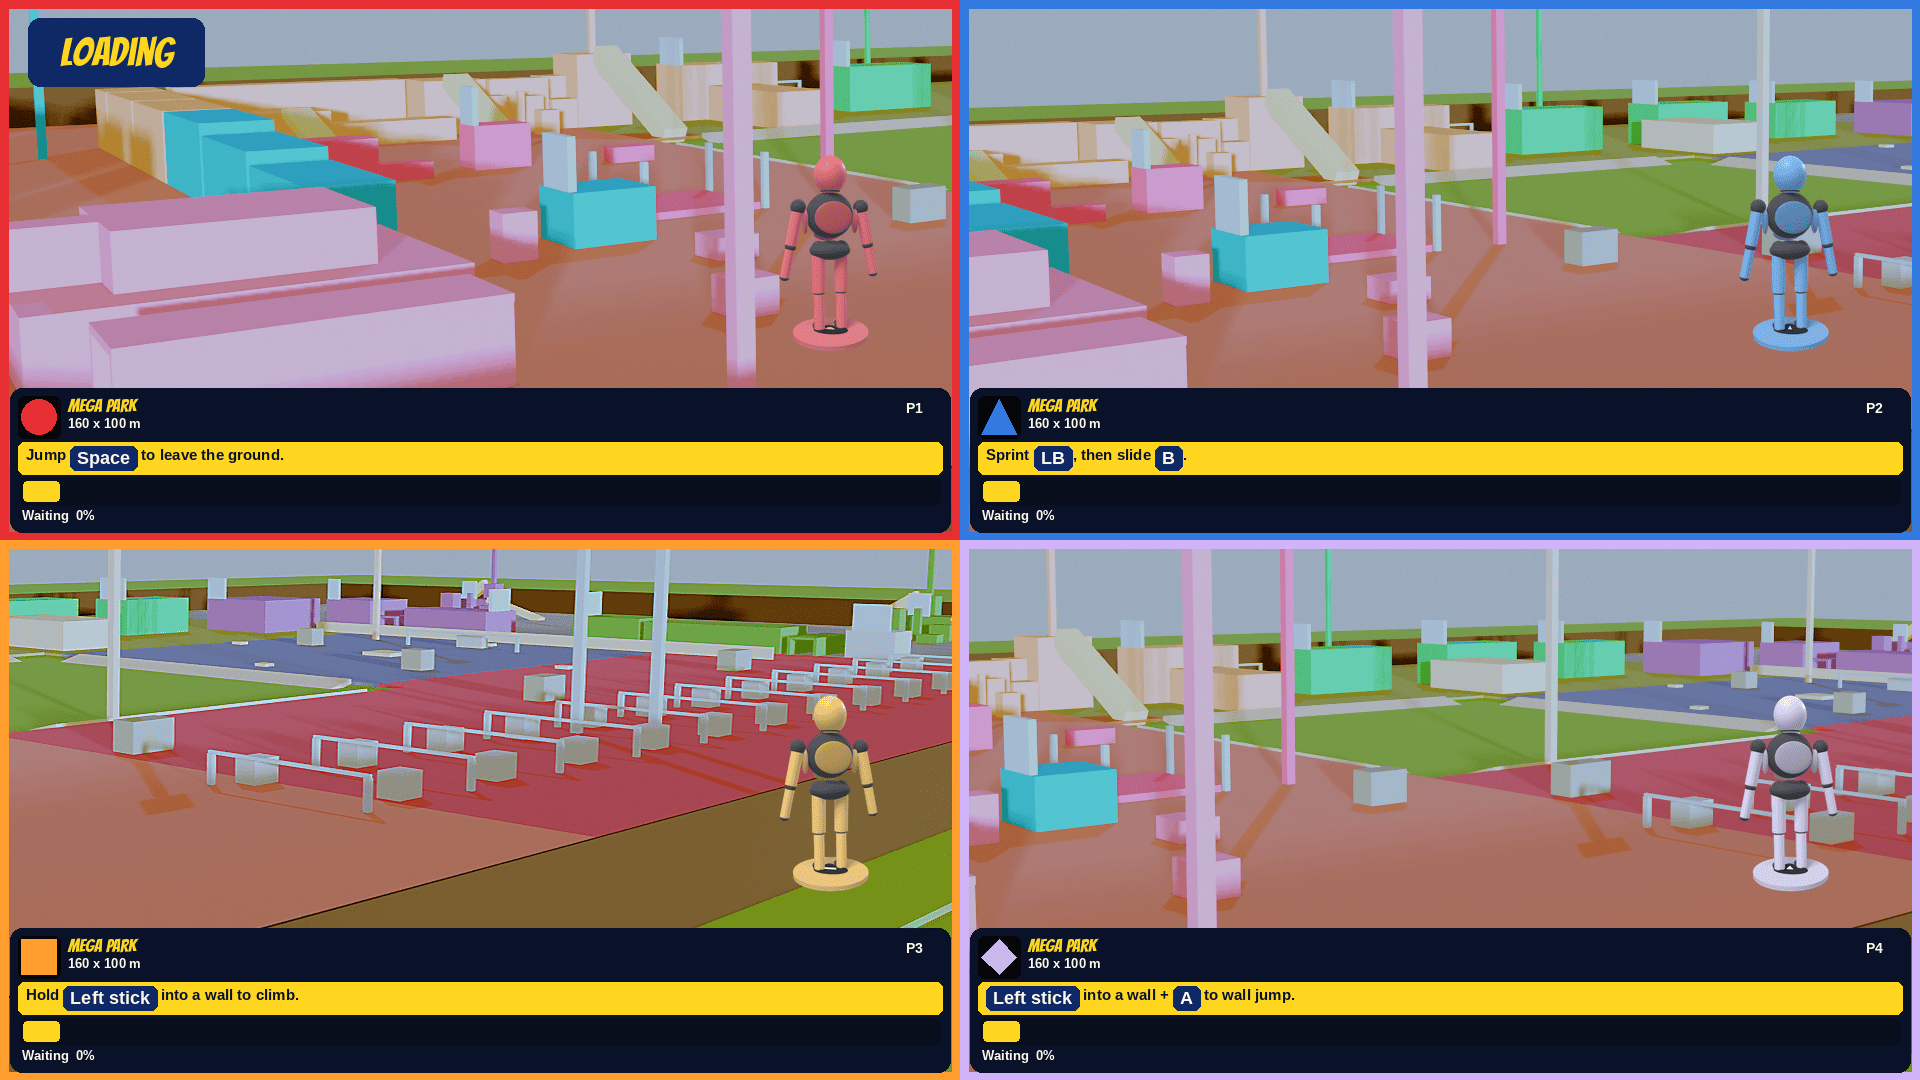
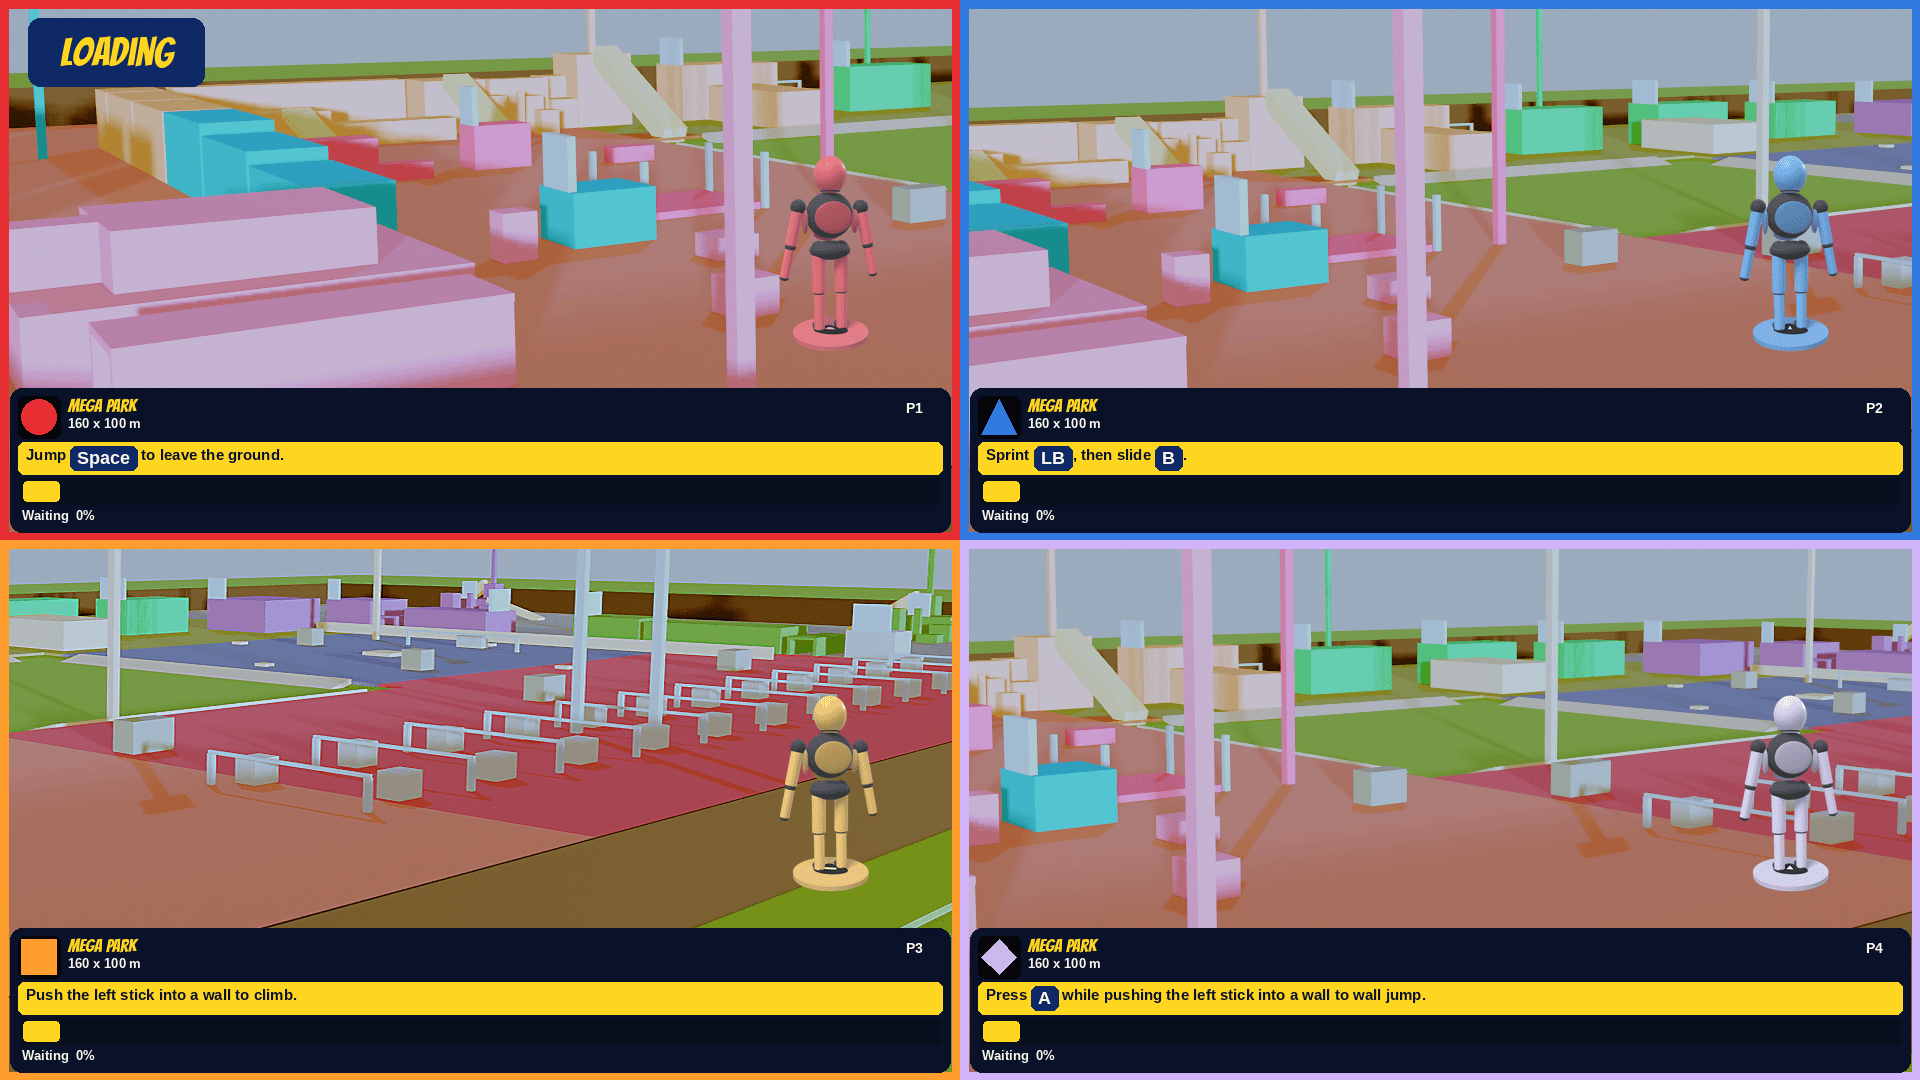
Match climb, wall jump, and grapple tips to the sampled input.
Climb is the move pushed into the wall, not a cling button. Wall jump is Jump while that wish holds. Pad tips do not invent a grapple glyph.

diff --git a/Tools/UiScreens/render_pass32.py b/Tools/UiScreens/render_pass32.py
@@ -6,6 +6,7 @@ import subprocess
 
 import render_pass27 as p27
 import render_pass28 as p28
+import render_pass31 as p31
 import render_screens2 as ui
 from PIL import Image, ImageDraw, ImageStat
 
@@ -29,9 +30,11 @@ RAW = "/tmp/seatload"
 TIPS = (
     "Jump [Space] to leave the ground.",
     "Sprint [LB], then slide [B].",
-    "Hold [Left stick] into a wall to climb.",
-    "[Left stick] into a wall + [A] to wall jump.",
+    "Push the left stick into a wall to climb.",
+    "Press [A] while pushing the left stick into a wall to wall jump.",
 )
+MAIN_CLIMB = "Push [WASD] or the left stick into a wall to climb."
+MAIN_GRAPPLE = "Double-click [RMB] to let go of the grapple."
 
 
 def crop_park(seat, size):
@@ -311,6 +314,72 @@ def probe(path, plates, shapes, tracks, rects):
     print("probe=ok")
 
 
+def scene_main():
+    """Accepted main menu. Only the climb sentence changes."""
+    p27.reset_layout()
+    img = p28.darken(0.30)
+    d = ImageDraw.Draw(img)
+    checks, ratios = [], []
+    face = ui.font(ui.FONT_D, 48)
+    label = "Menu"
+    tw = d.textlength(label, font=face)
+    header = (96, 16, int(96 + tw + 72), 100)
+    ui.rounded(d, header, 12, NAVY)
+    p27.ROWS.append(header)
+    p27.text(d, (96 + 36, 28), label, face, GOLD, NAVY, header, checks, ratios, home=header)
+    p28.lockup(img, (140, 112, 520, 360))
+    d = ImageDraw.Draw(img)
+    blurb = (110, 368, 860, 416)
+    ui.rounded(d, blurb, 10, NAVY)
+    p27.ROWS.append(blurb)
+    p27.text(d, (128, 376), "Local couch. One keyboard, four pads.", ui.font(ui.FONT_B, 22), CREAM, NAVY, blurb, checks, ratios, home=blurb)
+    placed = p31.paste_pair(img, (140, 428, 840, 868))
+    if placed[1] < blurb[3]:
+        raise SystemExit("figures cover the blurb")
+    d = ImageDraw.Draw(img)
+    tip = (110, 888, 860, 1048)
+    if placed[3] > tip[1]:
+        raise SystemExit("figures cover the tips")
+    ui.rounded(d, tip, 16, NAVY)
+    p27.ROWS.append(tip)
+    lines = (
+        (896, "Tip of the day", p28.MUTE),
+        (932, "Space jumps.", CREAM),
+        (968, MAIN_CLIMB, CREAM),
+        (1004, MAIN_GRAPPLE, CREAM),
+    )
+    tip_face = ui.font(ui.FONT_B, 22)
+    if d.textlength(MAIN_CLIMB, font=tip_face) > 700:
+        tip_face = ui.font(ui.FONT_B, 18)
+    for y, word, fill in lines:
+        home = (128, y - 4, 844, y + 34)
+        p27.text(d, (136, y), word, tip_face, fill, NAVY, home, checks, ratios, home=home)
+    rows = (
+        ("Play", "Local couch", True),
+        ("Practice", "Free run any arena, no tagger", False),
+        ("Options", "Sound, picture, access", False),
+        ("Controls", "Binds. Space still jumps.", False),
+    )
+    y = 120
+    play = None
+    for title, sub, hot in rows:
+        box = (920, y, 1760, y + 108)
+        if hot:
+            play = box
+        p28.paint_row(d, box, title, sub, hot, checks, ratios)
+        y += 144
+    records = None
+    for title, x in (("Credits", 920), ("Records", 1200), ("Quit", 1480)):
+        box = (x, y, x + 260, y + 96)
+        if title == "Records":
+            records = box
+        p28.paint_row(d, box, title, "", False, checks, ratios)
+    p31.one_focus(img, play, records)
+    if MAIN_CLIMB.find("against a wall") >= 0 or MAIN_CLIMB.find("Hold [WASD]") >= 0:
+        raise SystemExit("old climb tip")
+    return img, checks, ratios
+
+
 def finish(img, name, ratios):
     if min(ratios) < 4.5:
         raise SystemExit("contrast %.2f" % min(ratios))
@@ -341,6 +410,80 @@ def finish(img, name, ratios):
     return path
 
 
+def scene_join(cells):
+    """Drop-in cards. Same Hier idle on every seat, waiting banner unchanged."""
+    p27.reset_layout()
+    img = p28.darken(0.28)
+    d = ImageDraw.Draw(img)
+    checks, ratios = [], []
+    header = (80, 24, 900, 100)
+    ui.rounded(d, header, 12, NAVY)
+    p27.ROWS.append(header)
+    p27.text(d, (100, 36), "Who's playing", ui.font(ui.FONT_D, 44), GOLD, NAVY, header, checks, ratios, home=header)
+    banner_line = "Waiting for 1 player to ready up"
+    banner = (940, 28, 1840, 96)
+    ui.rounded(d, banner, 12, NAVY)
+    p27.ROWS.append(banner)
+    p27.text(d, (banner[0] + 24, 44), banner_line, ui.font(ui.FONT_B, 26), GOLD, NAVY, banner, checks, ratios, home=banner)
+    cards = (
+        (True, "Red", True, "Keyboard"),
+        (True, "Blue", False, "Gamepad"),
+        (False, "", False, ""),
+        (False, "", False, ""),
+    )
+    card_w, card_h, gap, top = 420, 760, 24, 140
+    left = (W - (card_w * 4 + gap * 3)) // 2
+    rects = []
+    for i, (human, profile, ready, device) in enumerate(cards):
+        x = left + i * (card_w + gap)
+        box = (x, top, x + card_w, top + card_h)
+        fill = ui.mix(INK, BAND[i], 0.40)
+        pad = 16 if i == 0 else 5
+        frame = (x - pad, top - pad, x + card_w + pad, top + card_h + pad)
+        ui.rounded(d, frame, 22, GOLD if i == 0 else p28.STROKE)
+        ui.rounded(d, box, 18, fill)
+        p27.ROWS.append(box)
+        d.rectangle((x + 16, top + 18, x + 28, top + card_h - 18), fill=BAND[i])
+        name_home = (x + 44, top + 16, x + 250, top + 78)
+        p27.text(d, (x + 48, top + 22), "P%d" % (i + 1), ui.font(ui.FONT_D, 40), CREAM, fill, name_home, checks, ratios, home=name_home)
+        well = (x + card_w - 104, top + 18, x + card_w - 16, top + 106)
+        ui.rounded(d, well, 10, WELL)
+        p27.stamp(d, (well[0] + 12, well[1] + 12, well[2] - 12, well[3] - 12), i)
+        ratios.append(ui.contrast(FILL[i], WELL))
+        side = 250
+        fig = (x + (card_w - side) // 2, top + 130, x + (card_w - side) // 2 + side, top + 130 + side)
+        pasted = cells[i].resize((side, side), Image.Resampling.LANCZOS)
+        img.alpha_composite(pasted, (fig[0], fig[1]))
+        rects.append(fig)
+        d = ImageDraw.Draw(img)
+        if human:
+            who = "<  %s  >" % profile
+            who_home = (x + 40, top + 400, x + card_w - 40, top + 450)
+            p27.text(d, (x + 70, top + 408), who, ui.font(ui.FONT_B, 28), CREAM, fill, who_home, checks, ratios, home=who_home)
+            dev_home = (x + 80, top + 470, x + card_w - 40, top + 516)
+            p27.text(d, (x + 120, top + 476), device, ui.font(ui.FONT_B, 26), CREAM, fill, dev_home, checks, ratios, home=dev_home)
+            chip = (x + 120, top + 640, x + 300, top + 700)
+            chip_fill = GOLD if ready else NAVY
+            ink = INK if ready else CREAM
+            ui.rounded(d, chip, 12, chip_fill)
+            word = "Ready" if ready else "Joined"
+            p27.text(d, (x + 150, top + 652), word, ui.font(ui.FONT_D, 32), ink, chip_fill, chip, checks, ratios, home=chip)
+        else:
+            prompt = "Press Space or A to join"
+            face = ui.font(ui.FONT_B, 22)
+            tw = d.textlength(prompt, font=face)
+            home = (x + 16, top + 420, x + card_w - 16, top + 470)
+            p27.text(d, (x + (card_w - tw) / 2, top + 430), prompt, face, p28.MUTE, fill, home, checks, ratios, home=home)
+        if fig[3] > (top + 400 if human else top + 410):
+            raise SystemExit("figure covers the label")
+    if len(rects) != 4:
+        raise SystemExit("join seats")
+    heights = [r[3] - r[1] for r in rects]
+    if max(heights) - min(heights) > 1:
+        raise SystemExit("join scale")
+    return img, checks, ratios
+
+
 def main():
     cells = pack_atlas()
     img, checks, ratios, plates, shapes, tracks, rects, _header = scene_load(cells)
@@ -349,6 +492,14 @@ def main():
     print("text", round(worst, 2), "contrast", round(min(ratios), 2))
     path = finish(img, "32-load.png", ratios)
     probe(path, plates, shapes, tracks, rects)
+    img, checks, ratios = scene_main()
+    worst = p27.verify(img, checks, "32-main")
+    print("main text", round(worst, 2), "contrast", round(min(ratios), 2))
+    finish(img, "32-main.png", ratios)
+    img, checks, ratios = scene_join(cells)
+    worst = p27.verify(img, checks, "32-join")
+    print("join text", round(worst, 2), "contrast", round(min(ratios), 2))
+    finish(img, "32-join.png", ratios)
 
 
 if __name__ == "__main__":

diff --git a/Assets/Scripts/UI/Menu/MenuTips.cs b/Assets/Scripts/UI/Menu/MenuTips.cs
@@ -13,8 +13,8 @@ namespace Tag.Ui.Menu
         {
             "Space jumps.",
             "Sprint, then slide.",
-            "Hold [WASD] against a wall to climb.",
-            "Hold [WASD] + [Space] to wall jump.",
+            "Push [WASD] or the left stick into a wall to climb.",
+            "Press [Space] while pushing into a wall to wall jump.",
             "Air dash in the air.",
             "Punch to tag. It changes hands.",
             "Tag-back is 1 second.",
@@ -75,32 +75,48 @@ namespace Tag.Ui.Menu
             bool pad = device != CouchPlay.DeviceKeyboard;
             if (i == 0) return Verb(PlayAction.Jump) + " [" + Mark(binds, PlayAction.Jump, pad) + "] to leave the ground.";
             if (i == 1) return Verb(PlayAction.Sprint) + " [" + Mark(binds, PlayAction.Sprint, pad) + "], then " + Later(PlayAction.Slide) + " [" + Mark(binds, PlayAction.Slide, pad) + "].";
-            if (i == 2) return "Hold [" + ClingWord(binds, pad) + "] into a wall to climb.";
-            if (i == 3) return "[" + ClingWord(binds, pad) + "] into a wall + [" + Mark(binds, PlayAction.Jump, pad) + "] to wall jump.";
+            if (i == 2) return ClimbLine(binds, pad);
+            if (i == 3) return WallJumpLine(binds, pad);
             if (i == 4) return Verb(PlayAction.AirDash) + " [" + Mark(binds, PlayAction.AirDash, pad) + "] in the air.";
             if (i == 5) return Verb(PlayAction.Punch) + " [" + Mark(binds, PlayAction.Punch, pad) + "]. It changes hands.";
-            if (i == 7)
-            {
-                string token = pad ? binds.GrapplePad : binds.GrappleKey;
-                return "Grapple [" + ActionBinds.Show(token) + "], double-click to let go.";
-            }
+            if (i == 7) return LetGoLine(binds, pad);
             return Lines[i];
         }
 
         /// <summary>
-        /// The cling display name, once. "Left stick hold" would repeat the verb Hold.
+        /// Climb is the move wish into the wall. Cling is not its own button.
         /// </summary>
-        static string ClingWord(ActionBinds binds, bool pad)
+        static string ClimbLine(ActionBinds binds, bool pad)
+        {
+            if (pad) return "Push the left stick into a wall to climb.";
+            return "Push [" + MoveWord(binds, false) + "] into a wall to climb.";
+        }
+
+        /// <summary>
+        /// Wall jump is Jump pressed while that wish still holds, or inside cling grace.
+        /// </summary>
+        static string WallJumpLine(ActionBinds binds, bool pad)
+        {
+            string jump = Mark(binds, PlayAction.Jump, pad);
+            if (pad) return "Press [" + jump + "] while pushing the left stick into a wall to wall jump.";
+            return "Press [" + jump + "] while pushing [" + MoveWord(binds, false) + "] into a wall to wall jump.";
+        }
+
+        /// <summary>
+        /// Second press inside the grapple window lets go. Pads have no glyph here.
+        /// </summary>
+        static string LetGoLine(ActionBinds binds, bool pad)
+        {
+            if (pad) return "Double-click to let go of the grapple.";
+            if (binds == null) binds = ActionBinds.Defaults();
+            return "Double-click [" + ActionBinds.Show(binds.GrappleKey) + "] to let go of the grapple.";
+        }
+
+        static string MoveWord(ActionBinds binds, bool pad)
         {
             if (binds == null) binds = ActionBinds.Defaults();
-            string token = pad ? binds.Gamepad[(int)PlayAction.Cling] : binds.Keyboard[(int)PlayAction.Cling];
-            if (token == "leftStickHold") return "Left stick";
-            if (token == "holdIntoWall") return "WASD";
-            string show = ActionBinds.Show(token);
-            const string tail = " hold";
-            if (show.Length > tail.Length && show.EndsWith(tail))
-                return show.Substring(0, show.Length - tail.Length);
-            return show;
+            string token = pad ? binds.Gamepad[(int)PlayAction.Move] : binds.Keyboard[(int)PlayAction.Move];
+            return ActionBinds.Show(token);
         }
 
         static string Verb(PlayAction action)
@@ -146,8 +162,15 @@ namespace Tag.Ui.Menu
             if (At(9).IndexOf("first to 2", System.StringComparison.Ordinal) < 0) return false;
             if (For(0, 0) != At(0) || For(0, 1) != At(1)) return false;
             if (For(1, 0) == For(0, 0)) return false;
-            if (At(2).IndexOf("into a wall", System.StringComparison.Ordinal) >= 0) return false;
+            if (At(2) != "Push [WASD] or the left stick into a wall to climb.") return false;
+            if (Shown(0, 2).IndexOf("Push [WASD] into a wall", System.StringComparison.Ordinal) != 0) return false;
             if (Shown(2, 0).IndexOf("into a wall") < 0) return false;
+            if (Shown(2, 0).IndexOf("[", System.StringComparison.Ordinal) >= 0) return false;
+            string padLetGo = Shown(1, 6);
+            if (padLetGo.IndexOf("[", System.StringComparison.Ordinal) >= 0) return false;
+            if (padLetGo.IndexOf("leftTrigger", System.StringComparison.Ordinal) >= 0) return false;
+            if (padLetGo.IndexOf("LT", System.StringComparison.Ordinal) >= 0) return false;
+            if (Shown(0, 7).IndexOf("[RMB]", System.StringComparison.Ordinal) < 0) return false;
             if (Shown(2, 0).IndexOf("Cling hold", System.StringComparison.Ordinal) >= 0) return false;
             if (Shown(3, 0).IndexOf("Cling hold", System.StringComparison.Ordinal) >= 0) return false;
             if (Shown(3, 0).IndexOf("wall jump") < 0) return false;
